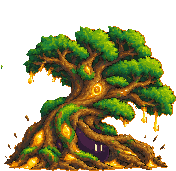
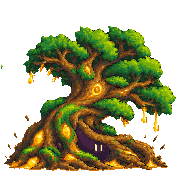
fix: 세계수 잎의 붉은 배경 테두리 제거
남은 유색 경계를 정리하고 최종 게임 PNG의 확대 비교와 전투 캡처를 추가한다.

Refs #127

diff --git a/.plan/assets/2026-10-16-boss-cutout-edges/README.md b/.plan/assets/2026-10-16-boss-cutout-edges/README.md
@@ -10,7 +10,7 @@
 
 - 내장 imagegen의 background-extraction 편집과 실제 투명 배경 출력을 사용했다. 입력은 `*-reference.png`, 결과 원본은 `*-generated.png`, 프롬프트는 `prompts.json`에 보관했다.
 - 생성 결과의 내부 명암/색 변경은 게임에 적용하지 않았다. 원본 f9e0d79의 RGB를 유지하고, 프레임마다 누끼를 정렬해 외곽 1 art pixel 안의 투명 경계만 적용했다. 떨어진 작은 마력/눈발/불티 입자는 보존했다.
-- 48개 프레임에서 경계 픽셀 10,329개를 투명하게 정리했다. 남아 있는 불투명 픽셀의 RGB 변경 0개, 새 불투명 픽셀 0개다. 프레임 크기, 피벗/PPU/필터/GUID와 프리팹 연결은 그대로다.
+- 1차 정리에서 48개 프레임의 경계 픽셀 10,329개를 투명 처리했다. 남아 있는 불투명 픽셀의 RGB 변경 0개, 새 불투명 픽셀 0개다. 프레임 크기, 피벗/PPU/필터/GUID와 프리팹 연결은 그대로다.
 - 알파는 기존처럼 0/255만 사용한다. 프레임당 최대 64색이며 기존 픽셀 격자를 유지했다.
 
 `apply-generated-mattes.cjs`는 결과를 보수적으로 통합하는 재현 스크립트다. Node와 sharp가 필요하며 저장소 루트에서 실행한다. 기본 실행은 Logs 아래에 미리보기만 쓰고, `--apply`를 붙이면 에셋에 반영한다. `WORDVENTURE_SHARP`로 설치된 sharp 모듈 경로를 지정할 수 있다. 원본은 고정된 Git 커밋 f9e0d79에서 읽는다.
@@ -23,3 +23,7 @@
 Unity 2022.3.62f3 검증 사본에서 전체 EditMode 308 통과/1 GPU 검사 생략, PlayMode 실제 전투 캡처 2개 통과. `-batchmode -nographics -runTests -testPlatform EditMode`, 캡처는 그래픽을 켜고 `-testPlatform PlayMode -testFilter WordVenture.Tests.WorldTreeEntranceCaptures.세계수_먼_반짝임부터_착지까지_실제_전장_캡처;WordVenture.Tests.WorldTreeEntranceCaptures.지역_보스_예고와_세계수_모방_상태_캡처`로 실행했다.
 
 `battle-*.png` 6장을 수동 확인했다. 게임 코드 변경이 없어 전체 PlayMode 행동 검사는 이번에 다시 실행하지 않았다. 결과 요약은 `unity-validation.json`에 있다. Draft를 Ready로 바꾸기 전에 실제 플레이에서 8프레임의 경계가 자연스러운지 최종 확인한다.
+
+## 세계수의 붉은 잎 경계 후속
+
+사용자 확인에서 남은 붉은 주황색 선이 발견돼 세계수 8프레임에 2,359픽셀을 추가 정리했다. 현재 세계수 전후 비교는 이 후속 결과까지 포함한다. 상세 비교와 프롬프트/원본 대조는 `worldtree-red-fringe/`에 있다. 재현할 때는 1차 스크립트 다음에 해당 폴더의 `refine.cjs --apply`를 실행한다.

diff --git a/.plan/assets/2026-10-16-boss-cutout-edges/worldtree-red-fringe/README.md b/.plan/assets/2026-10-16-boss-cutout-edges/worldtree-red-fringe/README.md
@@ -1,0 +1,12 @@
+# 세계수 잎의 붉은 경계 추가 정리
+
+1차 누끼 정리 후에도 잎 바깥쪽에 연속된 붉은 주황색 선이 남았다. 일반 투명 마스크가 보존했던 유색 테두리여서, 이번에는 잎에 인접한 녹슨 색 경계를 별도로 정리했다.
+
+내장 imagegen에 해당 테두리만 제거하도록 요청했다(`input.png`, `generated.png`, `prompt.txt`). 생성 결과의 잎 영역을 참고해 원본 521257d의 녹색 잎과 인접한 붉은 주황색 외곽만 투명 처리했다. 생성 결과의 RGB는 사용하지 않는다. `refine.cjs --apply`로 재현하며 Node/sharp와 `WORDVENTURE_SHARP` 설정 방법은 상위 README와 같다.
+
+세계수 8프레임에서 2,359개 경계 픽셀을 추가로 정리했다. 녹색 잎과 밝은 금빛 수액에 쓰는 색은 제거 대상에서 제외했다. 원본과 크기/남아 있는 픽셀 RGB/이진 알파가 같음을 별도로 대조했다. 프리팹과 .meta는 바꾸지 않았다.
+
+`canopy-before-after.png`는 실제 게임 PNG의 잎 부분을 6배 확대한 것으로, 위는 521257d 상태이고 아래는 이번 결과다. `frames-before-after.png`도 위 두 줄이 이전 상태, 아래 두 줄이 수정 후 8프레임이다. 생성기의 중간 PNG를 게임에 넣은 결과가 아니다.
+
+
+Unity 2022.3.62f3 실제 세계수 등장/전투 캡처 PlayMode 1개 통과. `battle.png`를 수동 확인했다. 이미지 8개만 수정해 전체 EditMode/PlayMode 행동 검사는 이번 후속에서 재실행하지 않았다.

diff --git a/.plan/issues/2026-10-16-issue-127-boss-cutout-edges.md b/.plan/issues/2026-10-16-issue-127-boss-cutout-edges.md
@@ -30,9 +30,15 @@
 ## Open Questions
 없음.
 
+## 세계수 붉은 선 후속
+
+1차 마스크가 잎의 유색 테두리를 일부 남긴 것을 사용자 피드백과 6배 확대 비교로 확인했다. 내장 imagegen의 잎 영역과 원본 색을 대조해 녹슨 색의 외곽 2,359픽셀을 추가 정리했다. 8프레임의 나머지 RGB와 크기/메타데이터는 유지했다. 상세 근거는 자료 폴더의 `worldtree-red-fringe/`에 보관한다.
+
 ## Result
 
 - 6종 48프레임, 경계 10,329픽셀 투명 처리. 남겨 둔 RGB 변경 0개/새 불투명 픽셀 0개. 크기와 .meta 불변.
 - 독립 PNG 검사 통과, 최대 64색/이진 알파 유지.
 - Unity 2022.3.62f3 전체 EditMode 308 통과/1 GPU 검사 생략, 실제 전투 캡처 PlayMode 2개 통과.
 - 게임 코드 변경이 없는 에셋 정리로 전체 PlayMode 행동 검사는 다시 실행하지 않았다. 전후 8프레임과 전투 화면 6장을 PR에 첨부한다.
+
+추가 수정 후 실제 세계수 등장/전투 캡처 PlayMode 1개 통과. 8프레임 독립 대조와 확대 비교를 확인했다.
